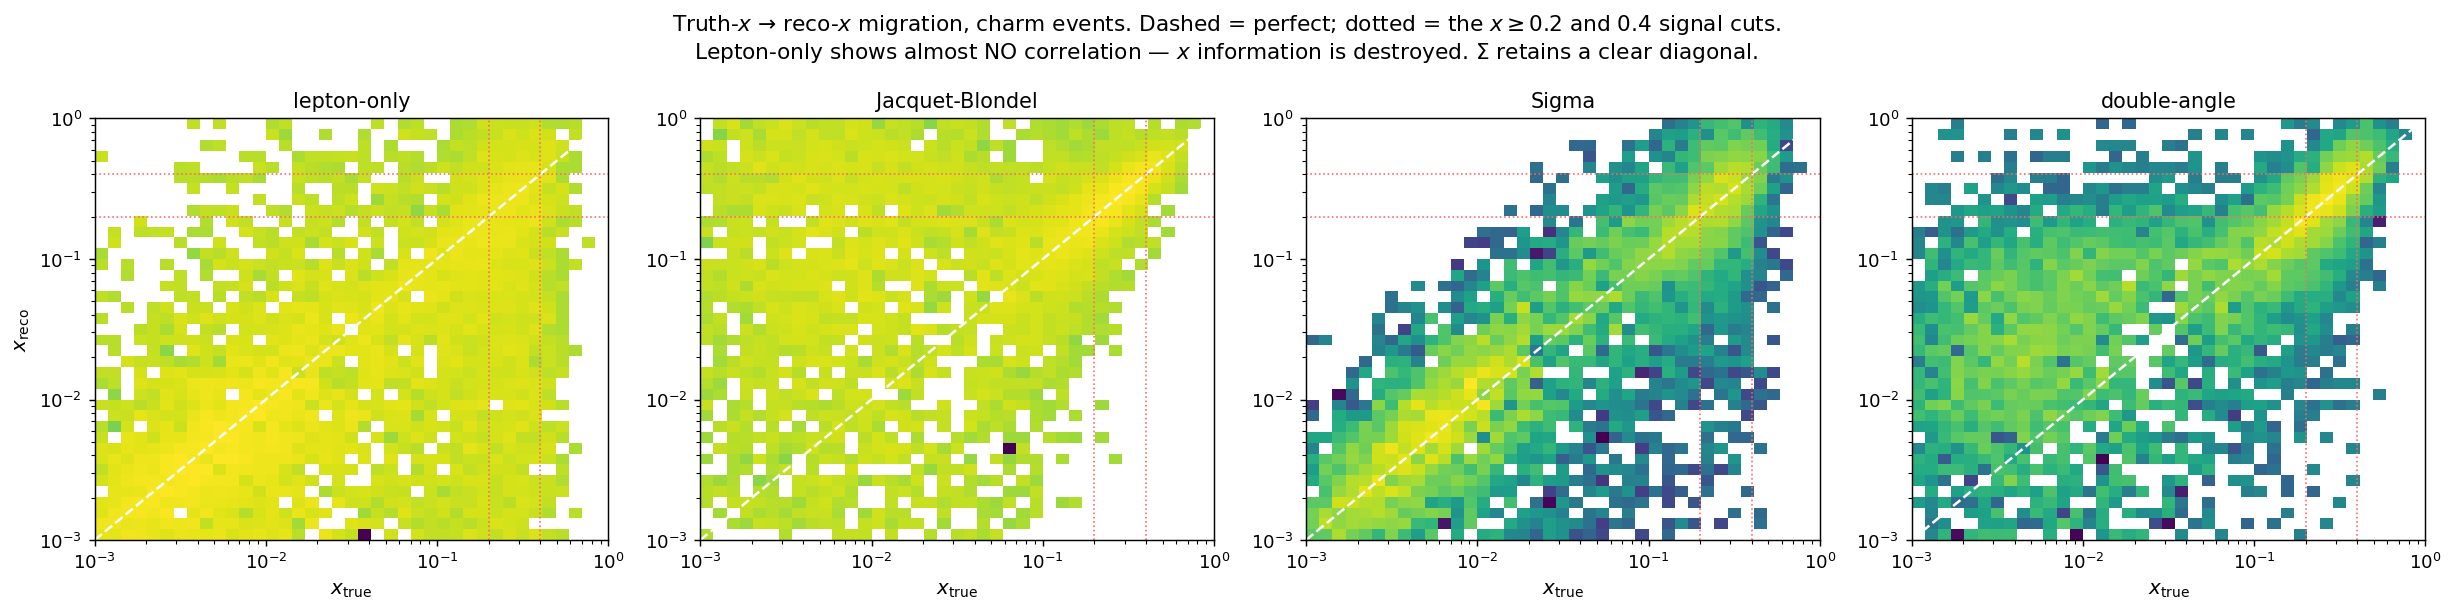
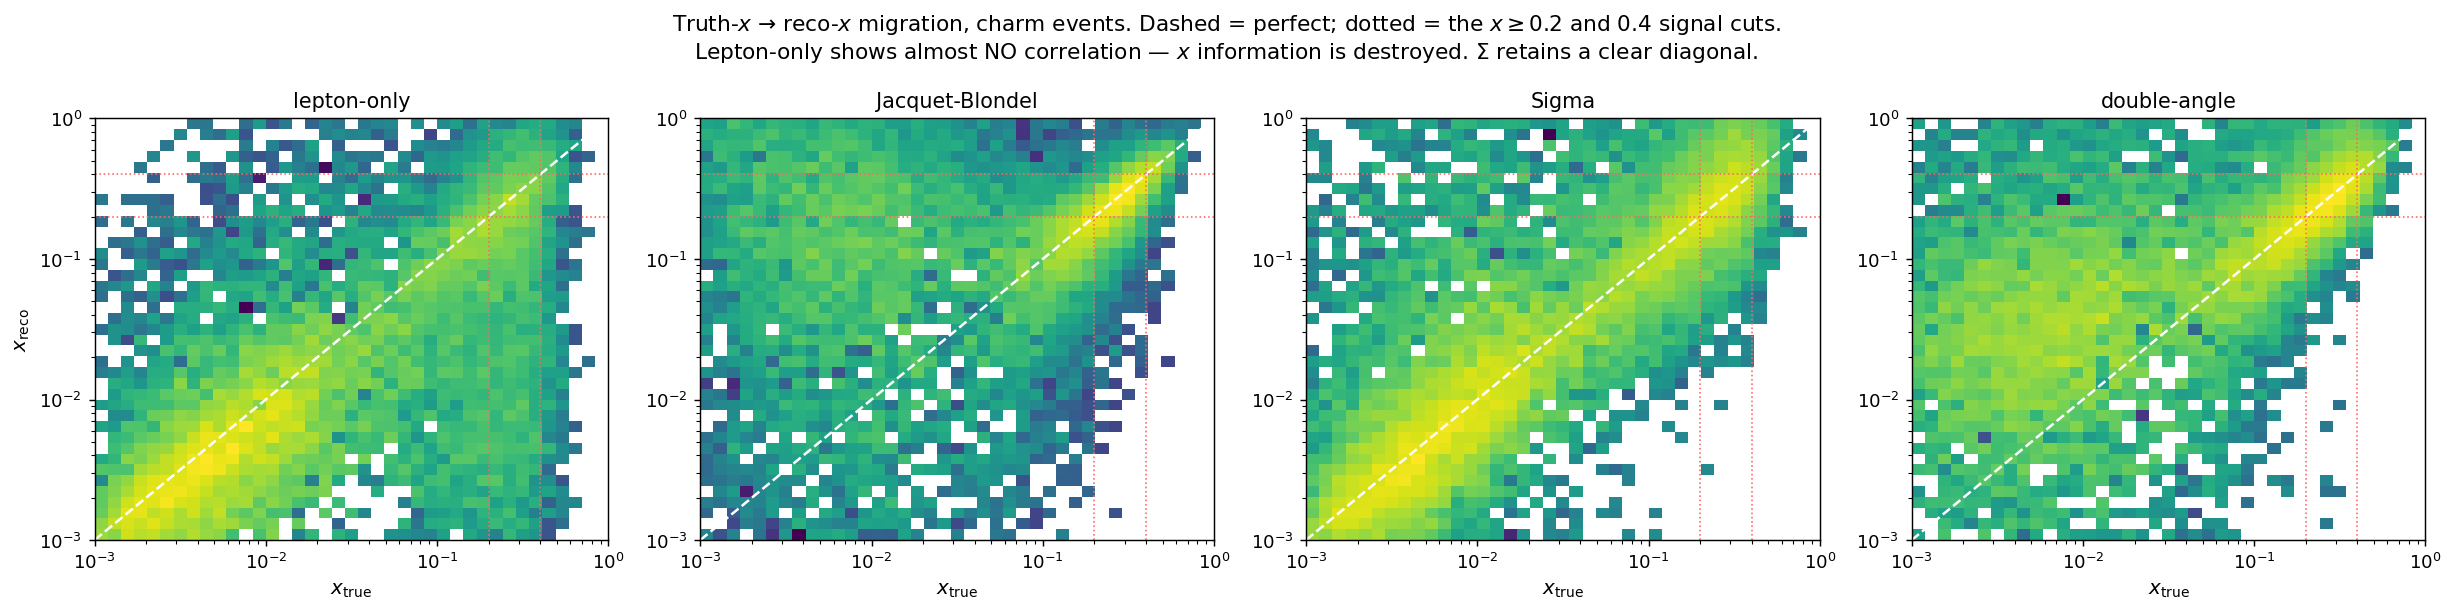
Neutrals do NOT undermine the calorimetric methods; final 25-seed numbers
Answers the last open physics question, on the full 1.90 M-event sample
(25 seeds; 165 k charm, 7566 charm events with x >= 0.2, up from 3081).

NEUTRINOS FROM CHARM SEMILEPTONIC DECAYS - now modelled rather than flagged.
This is an irreducible, one-sided loss specific to the signal events. Measured:
nonzero in 35% of charm events; when nonzero, median 13.2 GeV = 8.4% of nu; and
>10% of nu for 21% of the x >= 0.2 charm sample.

Effect on eff x purity at x >= 0.2:
    lepton-only      0.151 -> 0.151   (0%, uses no E_had)
    Jacquet-Blondel  0.292 -> 0.262   (-10%)
    Sigma            0.433 -> 0.444   (+3%)
    double-angle     0.506 -> 0.506   (0%)

It costs Jacquet-Blondel 10% and Sigma nothing. Sigma is protected because the
loss biases nu low, pushing x_Sigma up and into the selection, so efficiency and
purity move oppositely and largely cancel. Caveat recorded: the 9% hadronic
resolution comes from full simulation of neutrino events which also contain
charm decays, so this may partially double-count - hence the switchable flag.

NEUTRAL HADRONS (n, K_L), the non-compensation worry, are only 8% of the visible
energy on the x >= 0.2 charm sample (EM 22%, charged hadrons 63%). Too small to
overturn anything, and already inside the quoted sigma_had.

FINAL NUMBERS (x >= 0.2, all effects on):
    method            E_in measured        E_in NOT measured
    lepton-only       0.151                NOT AVAILABLE
    Jacquet-Blondel   0.262 (x1.7)         0.274
[…]

diff --git a/python/xreco.py b/python/xreco.py
@@ -74,6 +74,15 @@ RESOLUTIONS = dict(
     # Jacquet-Blondel methods depend on it.  NOT taken from any document.
     sigma_theta_had=20.0e-3,
     muon_scale=1.0,        # multiply the CDR muon resolution (1.0 = as measured)
+    # Subtract the energy carried off by neutrinos from charm semileptonic
+    # decays.  This is an IRREDUCIBLE, ONE-SIDED loss and it is specific to the
+    # signal events -- exactly the ones we select.  From the 25-seed sample:
+    # nonzero in 35% of charm events, median 13.2 GeV = 8.4% of nu when nonzero,
+    # and >10% of nu for 21% of the x>=0.2 charm sample.
+    # Caveat: the 9% hadronic resolution quoted by the Bern talk is derived from
+    # full simulation of neutrino events, which also contain charm decays, so
+    # this may partially double-count.  Switchable for exactly that reason.
+    subtract_nu=True,
 )
 
 
@@ -176,7 +185,10 @@ def smear(d, rng, res=None):
     thmu = np.maximum(d["theta_mu"] + rng.normal(0.0, r["sigma_theta"], size=n), 1e-6)
 
     h = hadronic_truth(d)
-    ehad = np.maximum(gauss(h["e"], r["sigma_had"]), 1e-3)
+    e_vis = h["e"]
+    if r["subtract_nu"] and "e_nu_charm" in d:
+        e_vis = np.maximum(e_vis - d["e_nu_charm"], 1e-3)
+    ehad = np.maximum(gauss(e_vis, r["sigma_had"]), 1e-3)
     # smear the hadronic DIRECTION independently of its magnitude
     th_h = np.arctan2(h["pt"], np.maximum(h["pz"], 1e-9))
     th_h = np.clip(th_h + rng.normal(0.0, r["sigma_theta_had"], size=n), 1e-6, np.pi - 1e-6)

diff --git a/docs/XRECO.md b/docs/XRECO.md
@@ -161,15 +161,49 @@ Three fixes were tried and **all failed**:
 Conservation is exact and makes the closure exact by construction, which is what
 a resolution study needs.
 
-**Not modelled, and it matters:**
+## Are the calorimetric methods viable given neutral particles? — Yes.
 
-- **Neutrinos from charm semileptonic decays** carry energy away, biasing the
-  *measurable* E_had low for precisely the signal events. This affects the
-  calorimetric methods and is not in these numbers.
-- Charged/neutral shower composition and its detector response, folded into the
-  single σ_had parameter.
-- The ~9 % hadronic resolution is quoted for the full 3DCAL+ECAL+AHCAL chain; the
-  3DCAL alone will be worse.
+This was the main threat to the whole argument, and it is now **modelled, not
+assumed away**.
+
+**Neutrinos from charm semileptonic decays** escape entirely. This is an
+irreducible, one-sided loss and it is *specific to the signal events*. Measured
+on the 25-seed sample:
+
+| | value |
+|---|---|
+| charm events with a charm neutrino | **35 %** |
+| when nonzero, median E_ν | **13.2 GeV = 8.4 % of ν** |
+| x ≥ 0.2 charm events losing >10 % of ν | **21 %** |
+
+Effect on the result (eff × purity at x ≥ 0.2):
+
+| method | no ν loss | **with ν loss** | change |
+|---|---:|---:|---:|
+| lepton-only | 0.151 | 0.151 | 0 % (uses no E_had) |
+| Jacquet–Blondel | 0.292 | 0.262 | **−10 %** |
+| **Σ** | 0.433 | **0.444** | +3 % |
+| double-angle | 0.506 | 0.506 | 0 % |
+
+**It costs Jacquet–Blondel 10 % and Σ nothing.** Σ is protected because the loss
+biases ν low, which pushes x_Σ *up* and hence into the selection — efficiency and
+purity move in opposite directions and largely cancel.
+
+*Caveat:* the 9 % hadronic resolution from the Bern talk is derived from full
+simulation of neutrino events, which also contain charm decays, so this may
+partially double-count. The effect is switchable (`subtract_nu`) for that reason.
+
+**Neutral hadrons** (n, K_L), which respond poorly in a non-compensating
+calorimeter, are only **8 %** of the visible energy on the x ≥ 0.2 charm sample
+(EM 22 %, charged hadrons 63 %). Too small to overturn anything, and already
+folded into the quoted σ_had.
+
+**Still not modelled:**
+
+- Non-compensation as an explicit e/h response difference with event-by-event π⁰
+  fluctuations — subsumed into the single σ_had parameter.
+- The ~9 % is quoted for the full 3DCAL+ECAL+AHCAL chain; the 3DCAL alone will be
+  worse, and this study excludes the AHCAL from the fiducial volume.
 
 ## Plots
 
